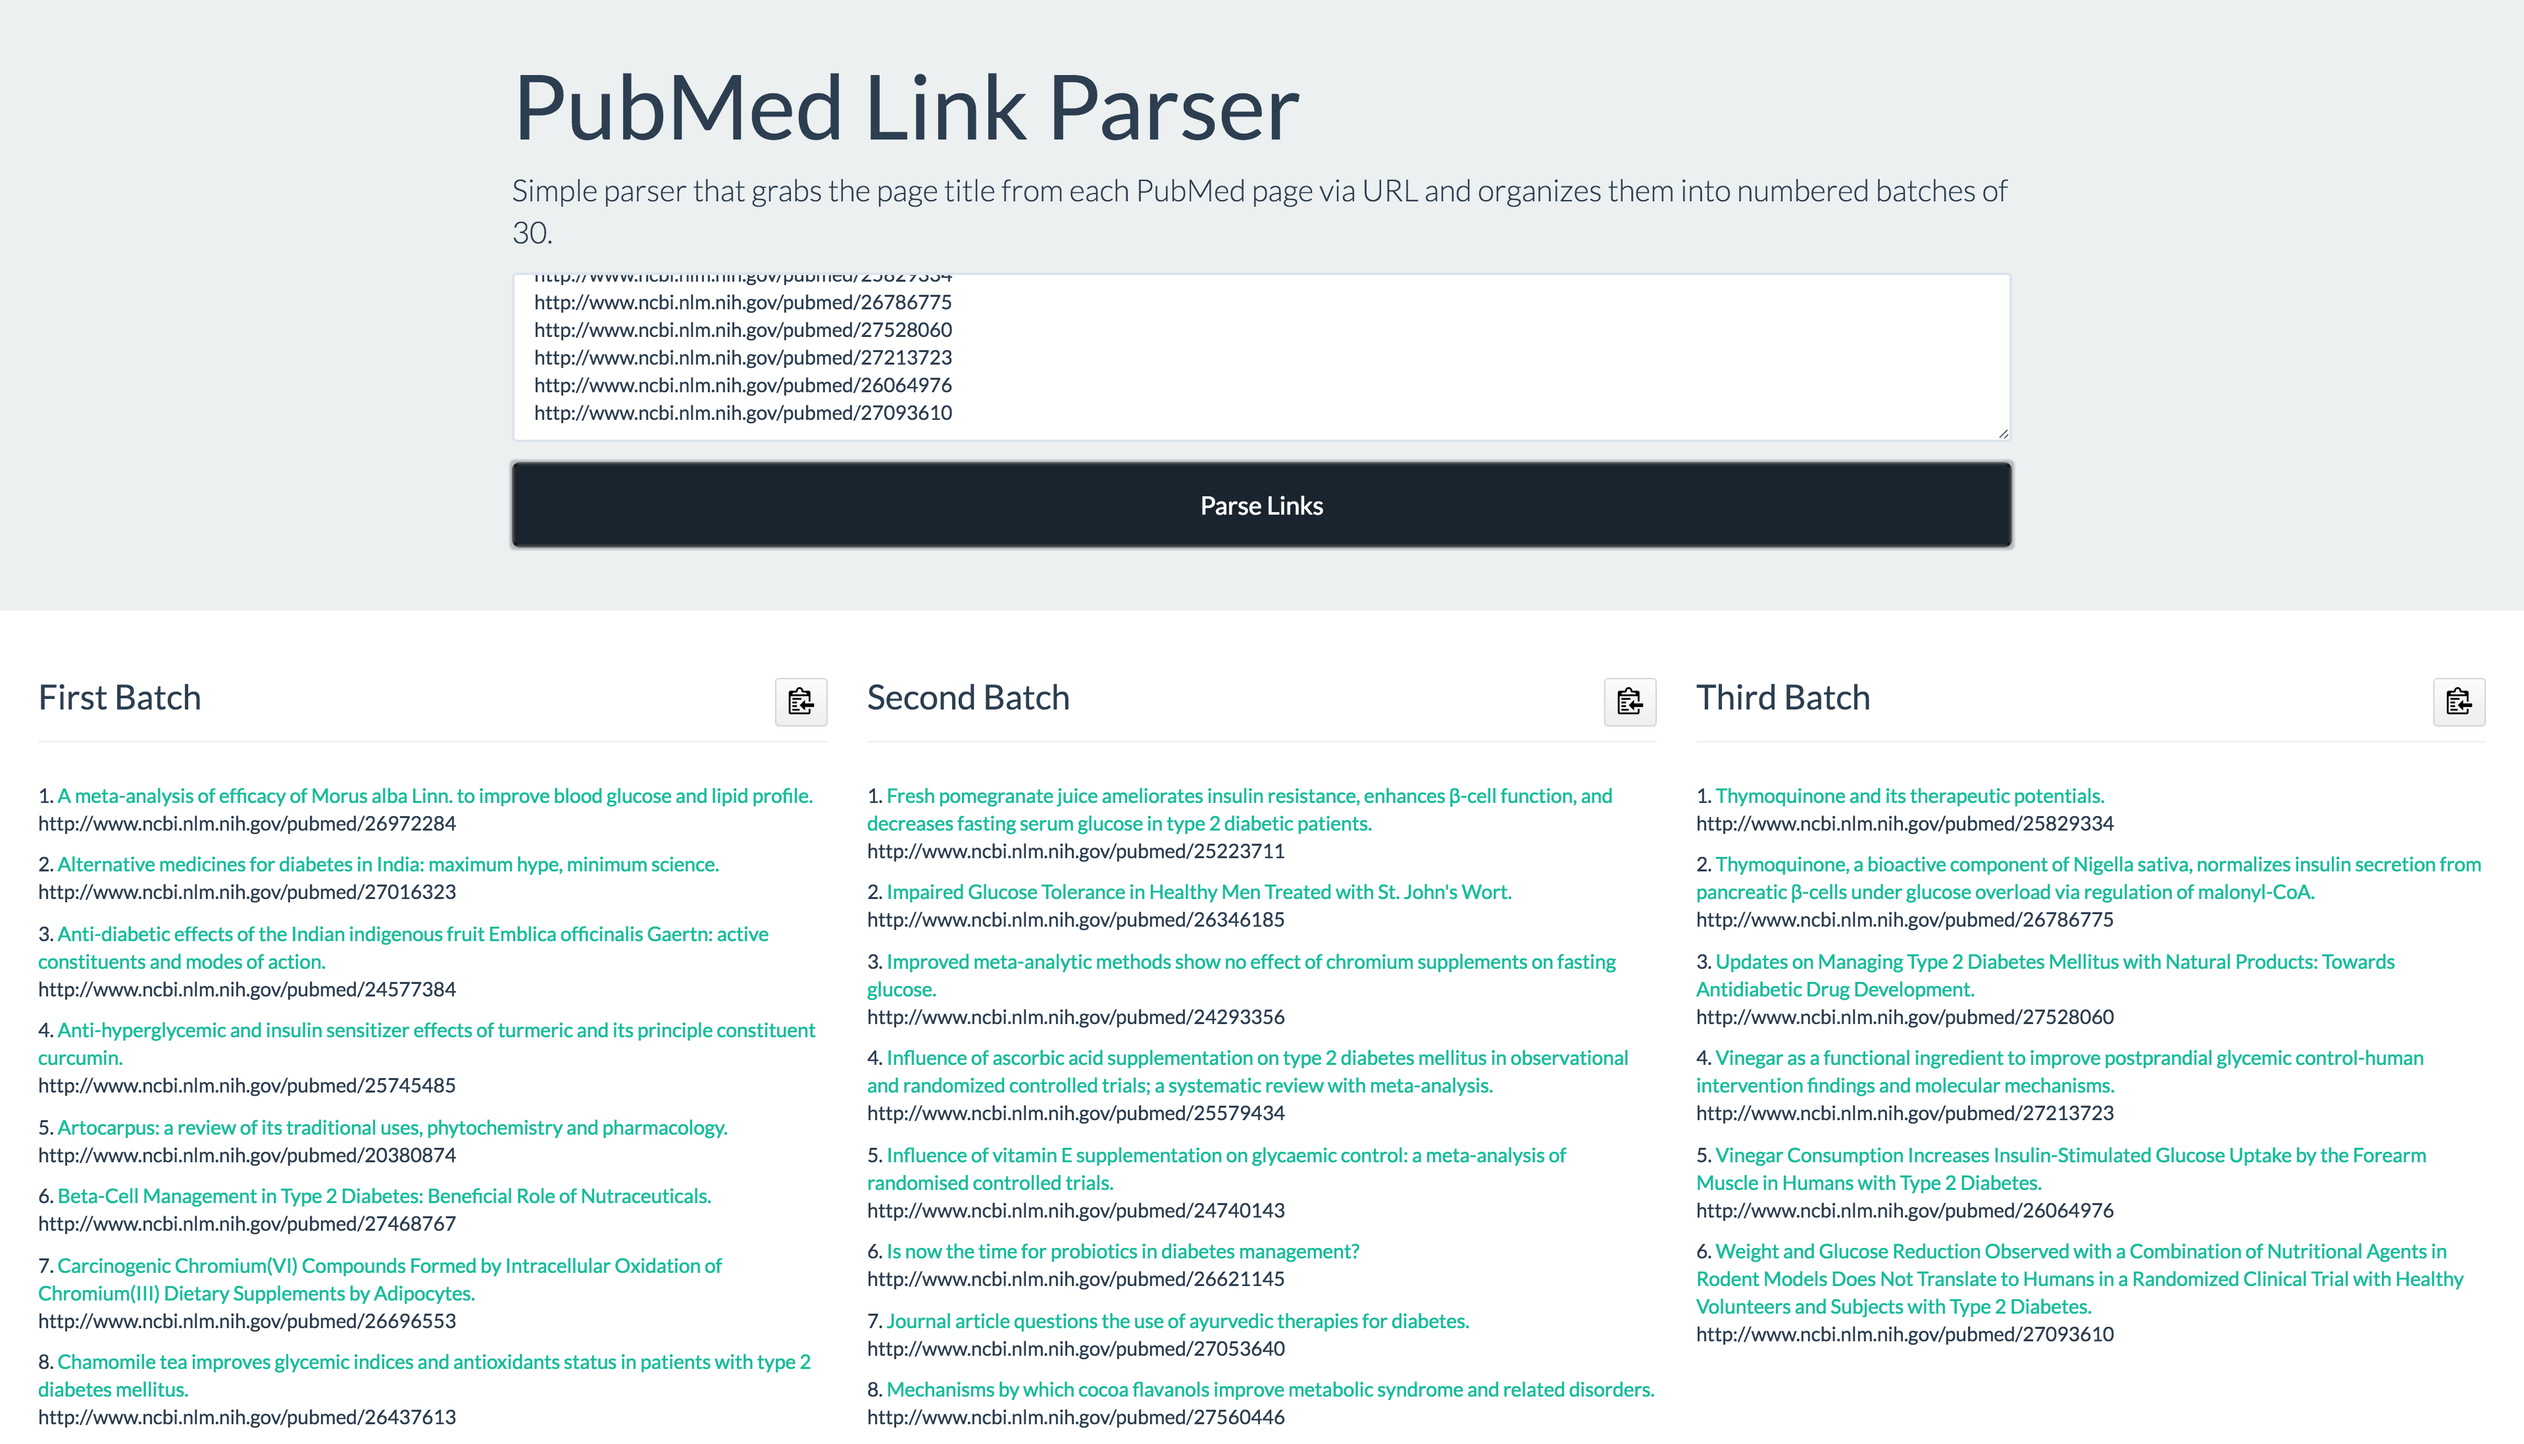
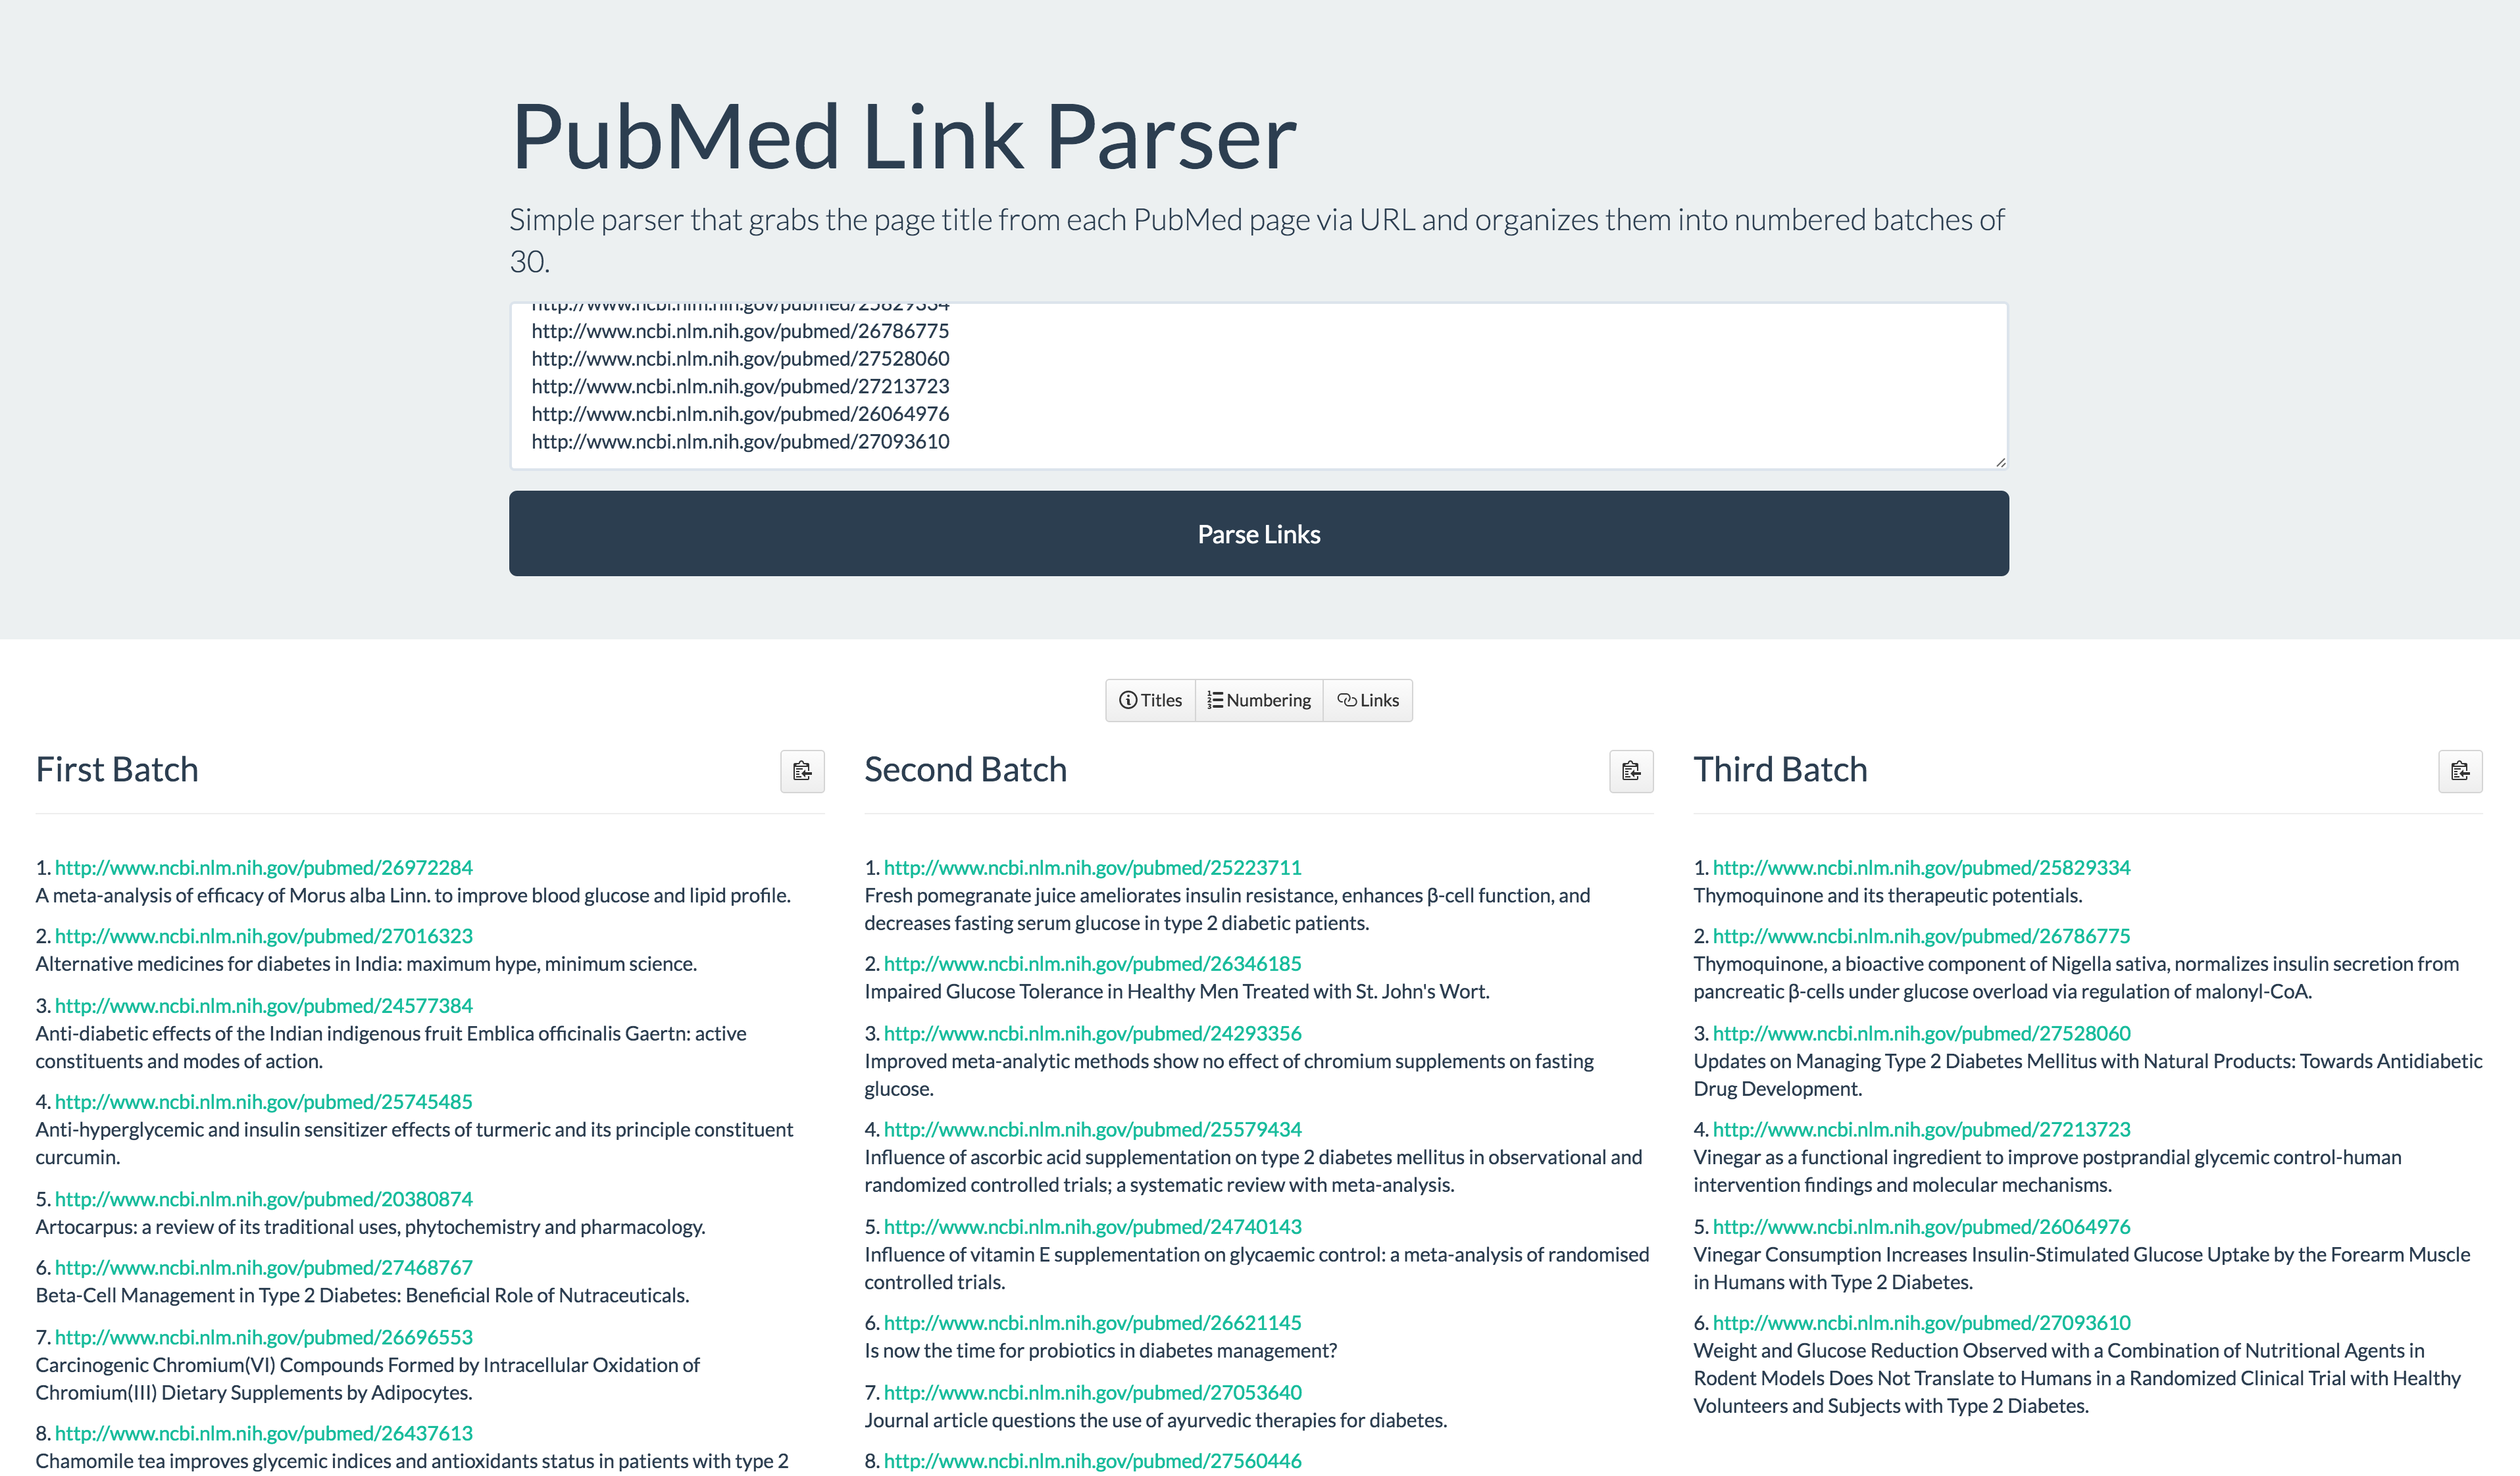
Closes #1, Closes #2

diff --git a/assets/js/main.js b/assets/js/main.js
@@ -55,3 +55,18 @@ clipboard.on('error', function(e) {
     setTooltip(e.trigger, 'Failed!');
     hideTooltip(e.trigger);
 });
+
+$(document).on("click","#titles", function () {
+    $( ".title" ).toggle( "slow", function() {
+  });
+});
+
+$(document).on("click","#numbering", function () {
+    $( ".numbering" ).toggle( "slow", function() {
+  });
+});
+
+$(document).on("click","#links", function () {
+    $( ".link" ).toggle( "slow", function() {
+});
+});

diff --git a/assets/css/style.css b/assets/css/style.css
@@ -7055,8 +7055,8 @@ h3 {
     -webkit-appearance: none;
 }
 
-.clipboard {
-    width: 20px;
+.btn-secondary:hover {
+    color: #333333;
 }
 
 .single-batch {

diff --git a/parser.php b/parser.php
@@ -27,9 +27,17 @@
 
               $batch_number = 1;
 
+              echo '<div class="center-block text-center"><div class="btn-group" role="group" aria-label="Batch Options">
+                <button type="button" class="btn btn-sm btn-secondary" id="titles"><span class="octicon octicon-info"></span> Titles</button>
+                <button type="button" class="btn btn-sm btn-secondary" id="numbering"><span class="octicon octicon-list-ordered"></span> Numbering</button>
+                <button type="button" class="btn btn-sm btn-secondary" id="links"><span class="octicon octicon-link"></span> Links</button>
+              </div></div>';
+
               foreach (array_chunk($urls, 30, true) as $batch_number => $batch) {
                   echo '<div class="col-md-4 single-batch">';
-                  echo '<h3>'.$batch_count[$batch_number].' Batch <button class="btn btn-sm btn-secondary pull-right" data-clipboard-target="#'.$batch_count[$batch_number].'"><img src="assets/images/clipboard.svg" class="clipboard"></button></h3><div id="'.$batch_count[$batch_number].'">';
+                  echo '<h3>'.$batch_count[$batch_number].' Batch
+                  <button type="button" class="btn btn-sm btn-secondary pull-right" data-clipboard-target="#'.$batch_count[$batch_number].'"><span class="octicon octicon-clippy"></span></button></h3><div id="'.$batch_count[$batch_number].'">';
+
                   $url_count = 1;
                   foreach ($batch as $url) {
                       $url = trim($url);
@@ -40,7 +48,7 @@
                               continue;
                           }
 
-                          echo '<p>'.$url_count.'. <a href="'.$url.'">'.$title[1].'</a><br>'.$url.'</p>';
+                          echo '<p><span class="numbering">'.$url_count.'.</span> <a href="'.$url.'" class="link">'.$url.'</a><br /><span class="title">'.$title[1].'</span>';
 
                           ++$url_count;
                       } else {

diff --git a/index.php b/index.php
@@ -10,7 +10,7 @@
     <link rel="icon" href="favicon.ico">
 
     <link rel="stylesheet" href="assets/css/style.css">
-    <link rel="stylesheet" href="https://maxcdn.bootstrapcdn.com/font-awesome/4.6.3/css/font-awesome.min.css">
+    <link rel="stylesheet" href="https://cdnjs.cloudflare.com/ajax/libs/octicons/3.5.0/octicons.min.css">
 
     <title>PubMed Link Parser</title>
   </head>
@@ -39,7 +39,7 @@
 
     <footer class="footer">
         <div class="container">
-            <p class="text-center"><span class="text-muted">Made with <i class="fa fa-heart pink"></i> by <a href="https://christirichards.com" title="ChristiRichards.com" target="_blank">Christi Richards</a></span></p>
+            <p class="text-center"><span class="text-muted">Made with <span class="octicon octicon-heart pink"></span> by <a href="https://christirichards.com" title="ChristiRichards.com" target="_blank">Christi Richards</a> | Contribute on <a href="https://github.com/christirichards/pubmed-link-parser/" target="_blank"><span class="octicon octicon-logo-github"></span></a></span></p>
         </div>
     </footer>
 
